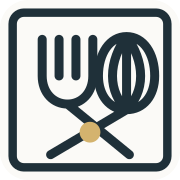
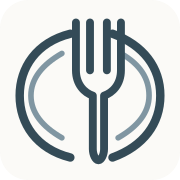
Adopt fork and plate brand mark

diff --git a/app/opengraph-image.tsx b/app/opengraph-image.tsx
@@ -1,16 +1,15 @@
 import { ImageResponse } from "next/og";
 
-export const alt = "Fork Goodness Baked — Artisanal Goodness";
+export const alt = "Fork Goodness Baked — private chef, corporate lunches and event catering";
 export const size = { width: 1200, height: 630 };
 export const contentType = "image/png";
 
 function Mark() {
   return (
     <svg width="220" height="220" viewBox="0 0 64 64">
-      <rect x="3" y="3" width="58" height="58" rx="3" fill="none" stroke="#1f3039" strokeWidth="3" />
-      <path d="M15 14v13c0 6 4 10 9 10s9-4 9-10V14M21 14v13m6-13v13M24 37l22 18" fill="none" stroke="#1f3039" strokeWidth="3.2" strokeLinecap="round" strokeLinejoin="round" />
-      <path d="M45 13c-6 0-10 6-10 14 0 7 4 12 10 12s10-5 10-12c0-8-4-14-10-14Zm0 0c-3 4-5 9-5 14s2 9 5 12m0-26c3 4 5 9 5 14s-2 9-5 12m0-26v26M45 39 18 55" fill="none" stroke="#1f3039" strokeWidth="3.2" strokeLinecap="round" strokeLinejoin="round" />
-      <circle cx="32" cy="47" r="3.7" fill="#d4b36e" />
+      <path d="M25 12C13 15 7 24 7 34s6 19 18 22M40 12c11 4 17 12 17 22s-6 18-17 22" fill="none" stroke="#344b57" strokeWidth="3" strokeLinecap="round" />
+      <path d="M22 19c-7 4-11 9-11 15s4 11 11 15M43 19c7 4 10 9 10 15s-4 11-11 15" fill="none" stroke="#8096a2" strokeWidth="2" strokeLinecap="round" />
+      <path d="M27 8v17c0 5 3 8 6 9v19c0 2 1 4 2 4s2-2 2-4V34c3-1 6-4 6-9V8M32 8v17m6-17v17" fill="none" stroke="#344b57" strokeWidth="2.8" strokeLinecap="round" strokeLinejoin="round" />
     </svg>
   );
 }
@@ -20,9 +19,9 @@ export default function Image() {
     <div style={{ width: "100%", height: "100%", display: "flex", alignItems: "center", padding: "76px 84px", background: "#fbfaf7", color: "#1f3039", position: "relative" }}>
       <Mark />
       <div style={{ display: "flex", flexDirection: "column", marginLeft: "70px" }}>
-        <div style={{ fontSize: 61, fontWeight: 700, letterSpacing: "2px", lineHeight: 1.02, maxWidth: "740px", textTransform: "uppercase" }}>Fork Goodness Baked</div>
-        <div style={{ width: "100%", height: "3px", background: "#d4b36e", margin: "30px 0 22px" }} />
-        <div style={{ fontSize: 26, letterSpacing: "8px", textTransform: "uppercase", color: "#405763" }}>Artisanal Goodness</div>
+        <div style={{ fontSize: 66, fontFamily: "serif", fontWeight: 400, letterSpacing: "3px", lineHeight: 1.02, maxWidth: "740px", textTransform: "uppercase" }}>Fork Goodness</div>
+        <div style={{ width: "100%", height: "2px", background: "#8096a2", margin: "28px 0 20px" }} />
+        <div style={{ fontSize: 28, letterSpacing: "18px", textTransform: "uppercase", color: "#8096a2" }}>Baked</div>
         <div style={{ fontSize: 19, marginTop: "30px", color: "#71848d" }}>Private dining · Celebrations · Corporate catering</div>
       </div>
     </div>,

diff --git a/app/public-shell.tsx b/app/public-shell.tsx
@@ -8,10 +8,9 @@ export function BrandMark({ className = "" }: { className?: string }) {
       aria-hidden="true"
       focusable="false"
     >
-      <rect x="3" y="3" width="58" height="58" rx="3" fill="none" stroke="currentColor" strokeWidth="3" />
-      <path d="M15 14v13c0 6 4 10 9 10s9-4 9-10V14M21 14v13m6-13v13M24 37l22 18" fill="none" stroke="currentColor" strokeWidth="3.2" strokeLinecap="round" strokeLinejoin="round" />
-      <path d="M45 13c-6 0-10 6-10 14 0 7 4 12 10 12s10-5 10-12c0-8-4-14-10-14Zm0 0c-3 4-5 9-5 14s2 9 5 12m0-26c3 4 5 9 5 14s-2 9-5 12m0-26v26M45 39 18 55" fill="none" stroke="currentColor" strokeWidth="3.2" strokeLinecap="round" strokeLinejoin="round" />
-      <circle cx="32" cy="47" r="3.7" fill="var(--brand-gold, #d4b36e)" />
+      <path d="M25 12C13 15 7 24 7 34s6 19 18 22M40 12c11 4 17 12 17 22s-6 18-17 22" fill="none" stroke="currentColor" strokeWidth="3" strokeLinecap="round" />
+      <path d="M22 19c-7 4-11 9-11 15s4 11 11 15M43 19c7 4 10 9 10 15s-4 11-11 15" fill="none" stroke="var(--brand-accent, #8096a2)" strokeWidth="2" strokeLinecap="round" opacity=".92" />
+      <path d="M27 8v17c0 5 3 8 6 9v19c0 2 1 4 2 4s2-2 2-4V34c3-1 6-4 6-9V8M32 8v17m6-17v17" fill="none" stroke="currentColor" strokeWidth="2.8" strokeLinecap="round" strokeLinejoin="round" />
     </svg>
   );
 }
@@ -31,8 +30,14 @@ export function Brand({
     >
       {!admin && <BrandMark className="brand__mark" />}
       <span className="brand__wordmark">
-        <strong>{admin ? "Em2" : "Fork Goodness Baked"}</strong>
-        <small>{admin ? "Catering Platform" : "Artisanal Goodness"}</small>
+        <strong
+          style={admin ? undefined : { fontFamily: '"Iowan Old Style", Baskerville, Georgia, serif', fontSize: "1rem", fontWeight: 500, letterSpacing: "0.06em" }}
+        >
+          {admin ? "Em2" : "Fork Goodness"}
+        </strong>
+        <small style={admin ? undefined : { letterSpacing: "0.5em" }}>
+          {admin ? "Catering Platform" : "Baked"}
+        </small>
       </span>
     </Link>
   );
